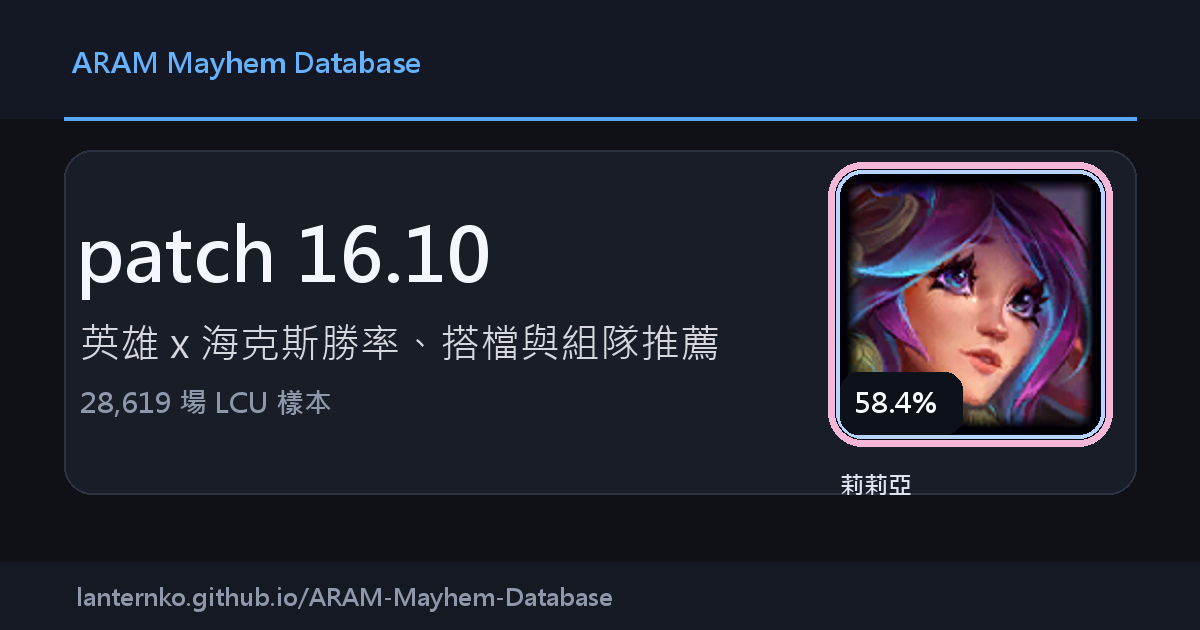
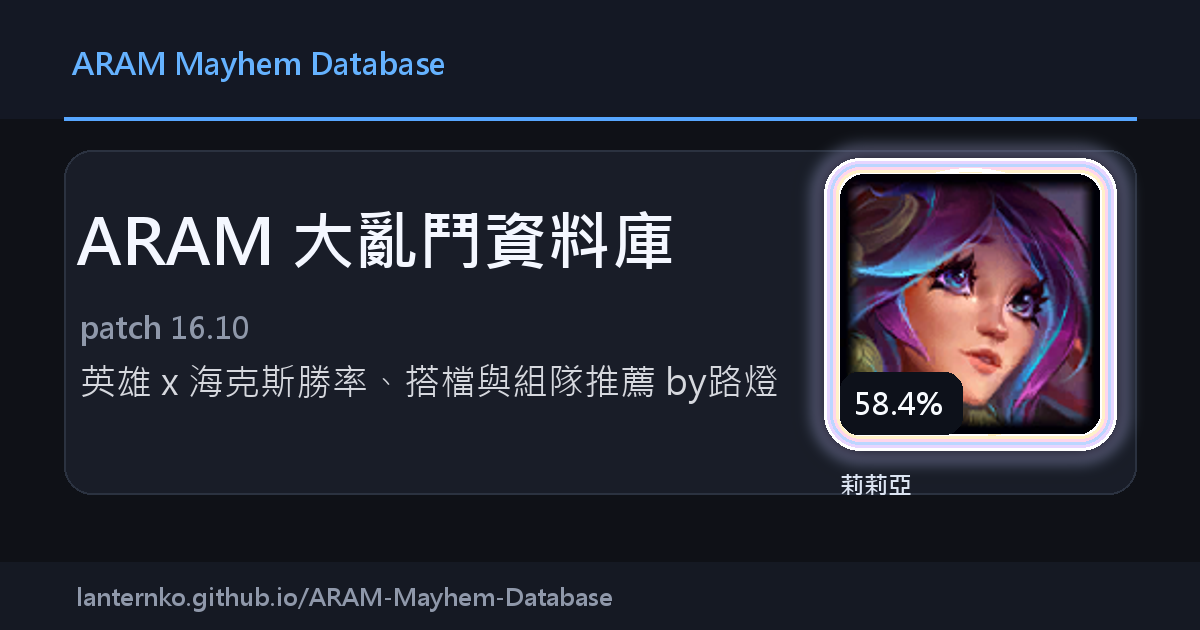
Polish social preview card

diff --git a/docs/index.html b/docs/index.html
@@ -1,4 +1,4 @@
-<!doctype html><html lang='zh-Hant'><head><meta charset='utf-8'><meta name='viewport' content='width=device-width, initial-scale=1'><title>patch 16.10</title><meta name='description' content="英雄 x 海克斯勝率、搭檔與組隊推薦"><link rel='canonical' href='https://lanternko.github.io/ARAM-Mayhem-Database/'><meta property='og:url' content='https://lanternko.github.io/ARAM-Mayhem-Database/'><meta property='og:type' content='website'><meta property='og:title' content="patch 16.10"><meta property='og:description' content="英雄 x 海克斯勝率、搭檔與組隊推薦"><meta property='og:image' content='https://lanternko.github.io/ARAM-Mayhem-Database/og-image.png?v=20260517'><meta property='og:image:width' content='1200'><meta property='og:image:height' content='630'><meta property='og:image:alt' content='ARAM Mayhem Database preview'><meta name='twitter:card' content='summary_large_image'><meta name='twitter:image' content='https://lanternko.github.io/ARAM-Mayhem-Database/og-image.png?v=20260517'><meta name='twitter:image:alt' content='ARAM Mayhem Database preview'><meta name='twitter:title' content="patch 16.10"><meta name='twitter:description' content="英雄 x 海克斯勝率、搭檔與組隊推薦"><link rel='preconnect' href='https://fonts.googleapis.com'><link rel='preconnect' href='https://fonts.gstatic.com' crossorigin><link href='https://fonts.googleapis.com/css2?family=Noto+Sans+TC:wght@400;500;600;700&family=Noto+Serif+TC:wght@400;500&display=swap' rel='stylesheet'><style>
+<!doctype html><html lang='zh-Hant'><head><meta charset='utf-8'><meta name='viewport' content='width=device-width, initial-scale=1'><title>ARAM 大亂鬥資料庫</title><meta name='description' content="patch 16.10｜英雄 x 海克斯勝率、搭檔與組隊推薦 by路燈"><link rel='canonical' href='https://lanternko.github.io/ARAM-Mayhem-Database/'><meta property='og:url' content='https://lanternko.github.io/ARAM-Mayhem-Database/'><meta property='og:type' content='website'><meta property='og:title' content="ARAM 大亂鬥資料庫"><meta property='og:description' content="patch 16.10｜英雄 x 海克斯勝率、搭檔與組隊推薦 by路燈"><meta property='og:image' content='https://lanternko.github.io/ARAM-Mayhem-Database/og-image.png?v=20260517'><meta property='og:image:width' content='1200'><meta property='og:image:height' content='630'><meta property='og:image:alt' content='ARAM Mayhem Database preview'><meta name='twitter:card' content='summary_large_image'><meta name='twitter:image' content='https://lanternko.github.io/ARAM-Mayhem-Database/og-image.png?v=20260517'><meta name='twitter:image:alt' content='ARAM Mayhem Database preview'><meta name='twitter:title' content="ARAM 大亂鬥資料庫"><meta name='twitter:description' content="patch 16.10｜英雄 x 海克斯勝率、搭檔與組隊推薦 by路燈"><link rel='preconnect' href='https://fonts.googleapis.com'><link rel='preconnect' href='https://fonts.gstatic.com' crossorigin><link href='https://fonts.googleapis.com/css2?family=Noto+Sans+TC:wght@400;500;600;700&family=Noto+Serif+TC:wght@400;500&display=swap' rel='stylesheet'><style>
     :root { color-scheme: dark; }
     * { box-sizing: border-box; }
     body {

diff --git a/scripts/build_tier_list.py b/scripts/build_tier_list.py
@@ -100,7 +100,7 @@ def write_og_image(
     total_games: int,
 ) -> None:
     """Write a 1200x630 social preview image for Open Graph cards."""
-    from PIL import Image, ImageDraw
+    from PIL import Image, ImageDraw, ImageFilter
 
     title, _queue_label = _queue_copy(queue_id)
     patch_label = f"patch {patch_prefix}" if patch_prefix else "all patches"
@@ -108,11 +108,11 @@ def write_og_image(
     top_meta = champ_meta.get(top_record["champion_id"]) if top_record else None
     top_wr = float(top_record.get("bayes_wr", 0.0)) if top_record else 0.0
 
-    img = Image.new("RGB", (1200, 630), "#0f1117")
+    img = Image.new("RGBA", (1200, 630), "#0f1117")
     draw = ImageDraw.Draw(img)
-    title_font = _load_font(74, bold=True)
-    body_font = _load_font(40)
-    meta_font = _load_font(28, bold=True)
+    title_font = _load_font(64, bold=True)
+    body_font = _load_font(36)
+    meta_font = _load_font(30, bold=True)
     small_font = _load_font(24, bold=True)
 
     # Layered blocks keep the preview readable in small chat cards.
@@ -123,25 +123,26 @@ def write_og_image(
     draw.line((64, 118, 1136, 118), fill="#57a6ff", width=4)
 
     draw.text((72, 42), "ARAM Mayhem Database", font=meta_font, fill="#65b2ff")
-    draw.text((76, 202), patch_label, font=title_font, fill="#f4f7ff")
-    draw.text((80, 314), "英雄 x 海克斯勝率、搭檔與組隊推薦", font=body_font, fill="#d6d8de")
-    draw.text((80, 382), f"{total_games:,} 場 LCU 樣本", font=meta_font, fill="#8f98aa")
+    draw.text((76, 196), title + "資料庫", font=title_font, fill="#f4f7ff")
+    draw.text((80, 306), patch_label, font=meta_font, fill="#8f98aa")
+    draw.text((80, 356), "英雄 x 海克斯勝率、搭檔與組隊推薦 by路燈", font=body_font, fill="#d6d8de")
     draw.text((76, 580), "lanternko.github.io/ARAM-Mayhem-Database", font=small_font, fill="#8f98aa")
 
     card_x, card_y, card_size = 840, 174, 260
-    draw.rounded_rectangle(
-        (card_x - 12, card_y - 12, card_x + card_size + 12, card_y + card_size + 12),
-        radius=34,
-        fill="#080a10",
-        outline="#f4b7d8",
-        width=7,
-    )
-    draw.rounded_rectangle(
-        (card_x - 4, card_y - 4, card_x + card_size + 4, card_y + card_size + 4),
-        radius=26,
-        outline="#b7d4ff",
-        width=4,
-    )
+    frame_box = (card_x - 16, card_y - 16, card_x + card_size + 16, card_y + card_size + 16)
+    draw.rounded_rectangle(frame_box, radius=36, fill="#080a10")
+    x1, y1, x2, y2 = frame_box
+    glow = Image.new("RGBA", img.size, (0, 0, 0, 0))
+    glow_draw = ImageDraw.Draw(glow)
+    glow_draw.rounded_rectangle((x1 - 12, y1 - 12, x2 + 12, y2 + 12), radius=48, outline=(220, 180, 255, 150), width=14)
+    glow_draw.rounded_rectangle((x1 - 18, y1 - 18, x2 + 18, y2 + 18), radius=54, outline=(170, 210, 255, 90), width=10)
+    img.alpha_composite(glow.filter(ImageFilter.GaussianBlur(9)))
+    for i, color in enumerate(["#ffffff", "#e7d5ff", "#bcd6ff", "#ffd5ec", "#fff1c8", "#ffffff"]):
+        inset = i * 3
+        draw.rounded_rectangle((x1 + inset, y1 + inset, x2 - inset, y2 - inset), radius=max(4, 36 - inset), outline=color, width=4)
+    draw.rounded_rectangle((x1 + 19, y1 + 19, x2 - 19, y2 - 19), radius=18, outline="#0a0d14", width=4)
+    draw.arc((x1 + 10, y1 + 10, x2 - 10, y2 - 10), 210, 335, fill="#ffffff", width=4)
+    draw.arc((x1 + 13, y1 + 13, x2 - 13, y2 - 13), 28, 82, fill="#fff1c8", width=3)
     if top_meta and top_meta.get("image"):
         try:
             resp = httpx.get(top_meta["image"], timeout=5)
@@ -166,7 +167,7 @@ def write_og_image(
         _draw_text_fit(draw, (card_x, card_y + card_size + 34), str(top_meta.get("name", "")), small_font, "#dce4f2", 220)
 
     out_path.parent.mkdir(parents=True, exist_ok=True)
-    img.save(out_path, "PNG", optimize=True)
+    img.convert("RGB").save(out_path, "PNG", optimize=True)
 
 
 def assign_tier(bayes_wr: float) -> str:
@@ -1883,8 +1884,8 @@ def render_html(
     payload_json = json.dumps(payload, ensure_ascii=False)
 
     og_patch_label = f"patch {patch_prefix}" if patch_prefix else "all patches"
-    og_title = og_patch_label
-    og_desc = "英雄 x 海克斯勝率、搭檔與組隊推薦"
+    og_title = f"{header_title}資料庫"
+    og_desc = f"{og_patch_label}｜英雄 x 海克斯勝率、搭檔與組隊推薦 by路燈"
 
     meta_lines: list[str] = []
     meta_lines.append("<meta charset='utf-8'>")
